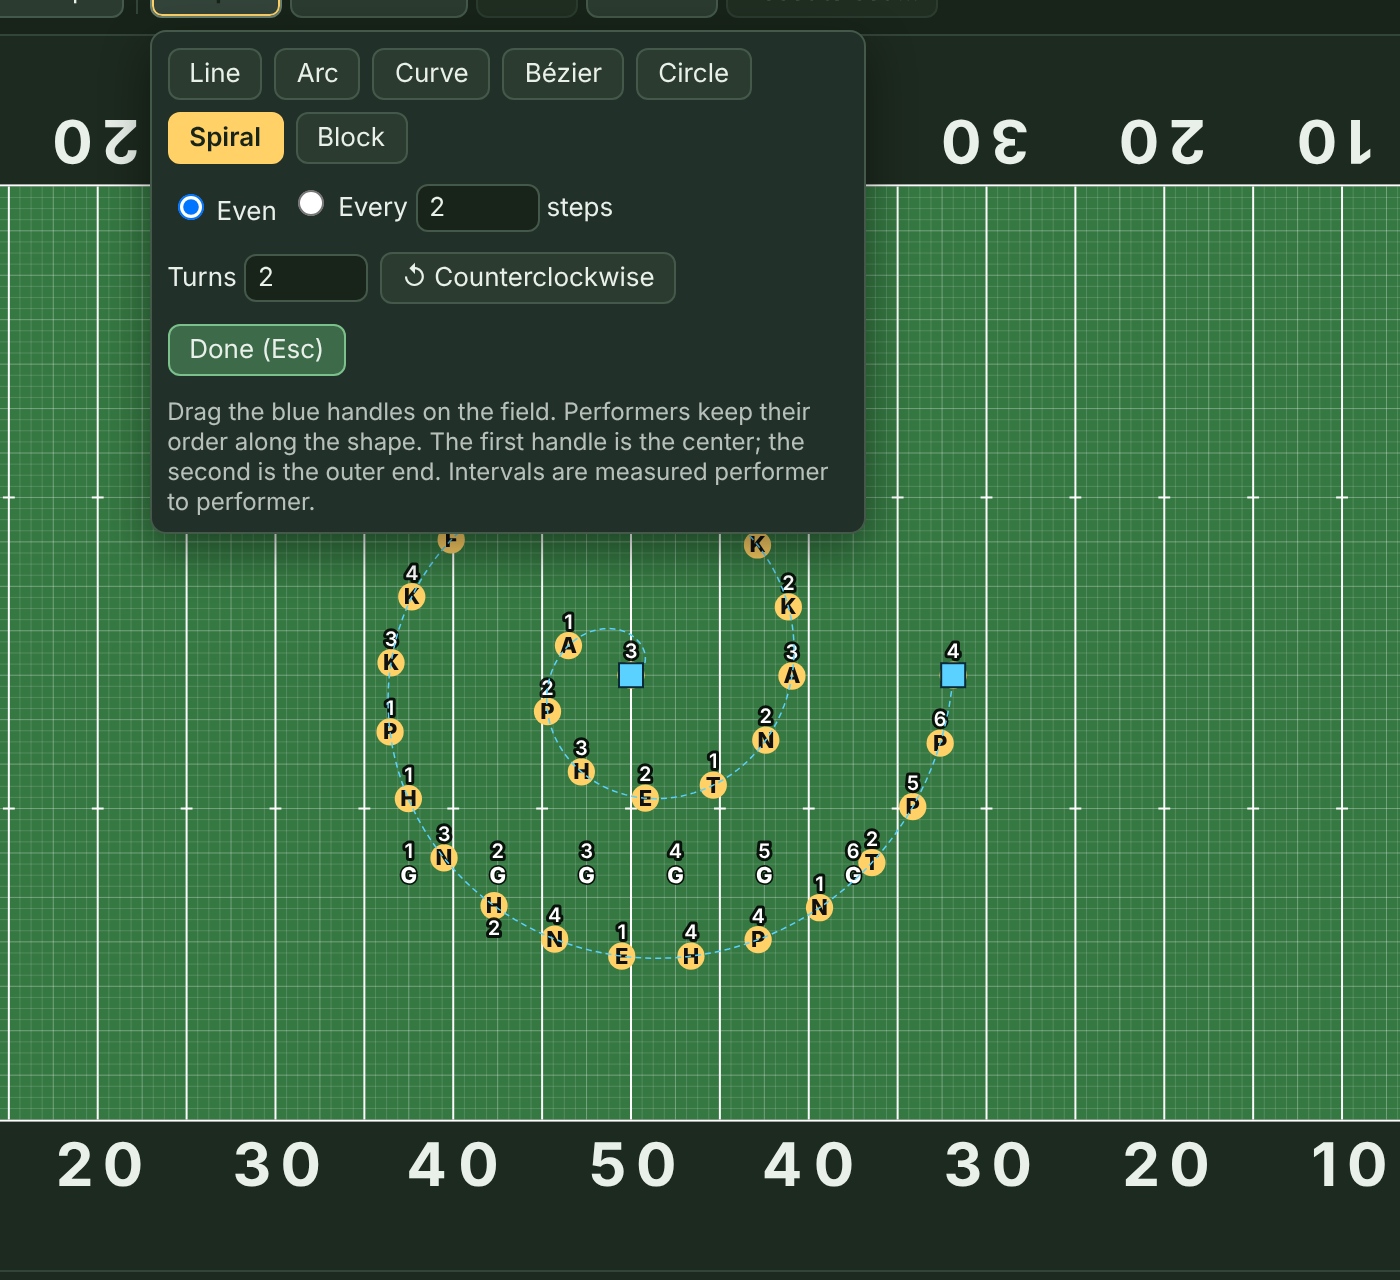
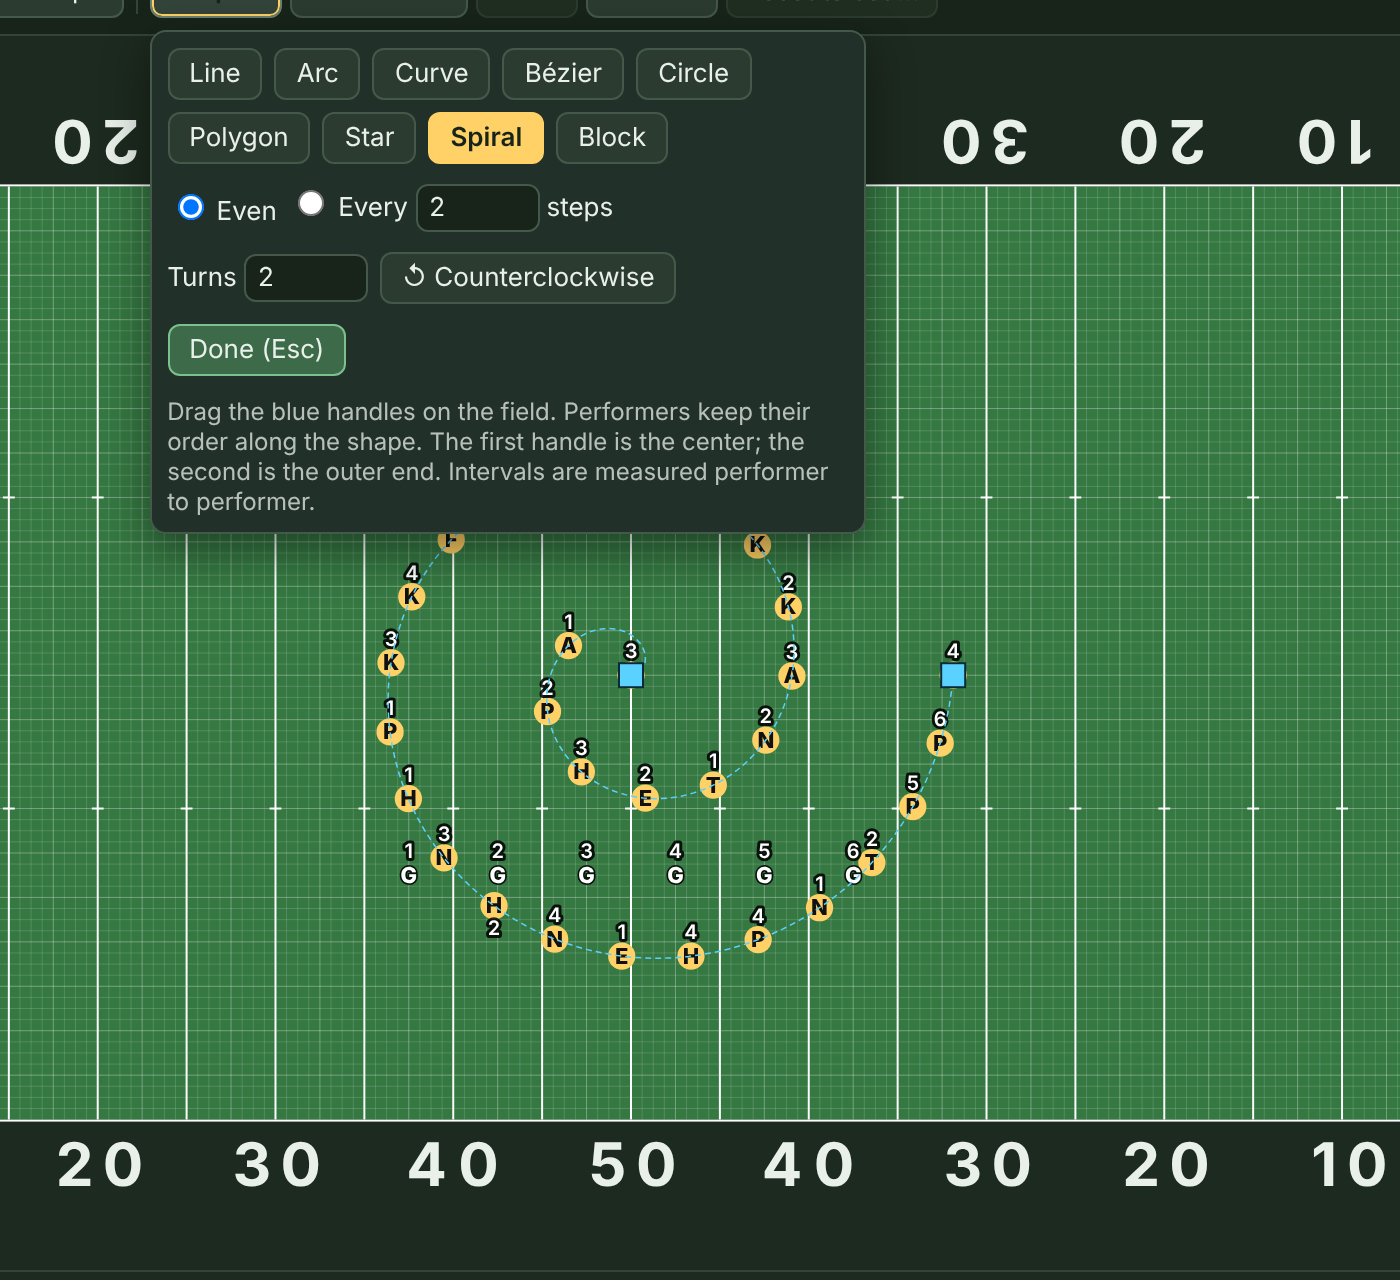
Polygon and star shapes
- Polygon: center and corner handles, 3 to 12 sides. Star: 3 to 12 points,
  inner corners 10 to 90% of the radius. Performers go evenly around the
  outline from the handle's corner. Shortcuts P and X.
- Guide, README, PLAN, DECISIONS, and screenshots updated.

Claude-Session: https://claude.ai/code/session_012ak5ZS7y7ZR1eS53teSgaT

Changed region(s): [[0.1229, 0.0625, 0.4607, 0.125]]

diff --git a/src/ui/Toolbar.tsx b/src/ui/Toolbar.tsx
@@ -38,7 +38,7 @@ export interface ToolbarProps {
 
 /** Shape, its name, and its one-letter shortcut (pressed with 2 or more performers selected). */
 export const SHAPES: [ShapeKind, string, string][] = [['line', 'Line', 'L'], ['arc', 'Arc', 'R'], ['curve', 'Curve', 'U'], ['bezier', 'Bézier', 'B'],
-  ['circle', 'Circle', 'O'], ['spiral', 'Spiral', 'S'], ['block', 'Block', 'K']];
+  ['circle', 'Circle', 'O'], ['polygon', 'Polygon', 'P'], ['star', 'Star', 'X'], ['spiral', 'Spiral', 'S'], ['block', 'Block', 'K']];
 const MARKUP: [Tool, string][] = [['text', 'Text (T)'], ['arrow', 'Arrow'], ['draw', 'Draw']];
 const row: React.CSSProperties = { display: 'flex', gap: 6, alignItems: 'center', flexWrap: 'wrap', marginTop: 6 };
 const help: React.CSSProperties = { margin: '6px 0 0', opacity: 0.75, fontSize: 12, whiteSpace: 'normal' };
@@ -131,7 +131,7 @@ export function Toolbar(p: ToolbarProps) {
       <span className="tb-sep" />
 
       <Menu label="Shape" disabled={needs(many, ids.length === 1 ? 'Select 2 or more performers' : pick)} keepOpen={!!p.shape} pressed={!!p.shape}
-        title="Shape the selection into a line, arc, curve, Bézier, circle, spiral, or block">
+        title="Shape the selection into a line, arc, curve, Bézier, circle, polygon, star, spiral, or block">
         {() => <ShapePanel {...p} />}
       </Menu>
       <Menu label="Transform" disabled={needs(any, pick)} title="Flip, mirror, rotate, or scale the selection">
@@ -251,6 +251,15 @@ function ShapePanel({ shape, startShape, updateShape, endShape }: ToolbarProps) 
                 onValue={(n) => updateShape({ interval: n })} /> steps
             </label>
           </div>
+          {(shape.kind === 'polygon' || shape.kind === 'star') && (
+            <div style={row}>
+              <label>{shape.kind === 'star' ? 'Points' : 'Sides'} <NumberField aria-label={shape.kind === 'star' ? 'Points' : 'Sides'} min={3} max={12} integer
+                value={shape.sides ?? 5} style={{ width: 48 }} onValue={(n) => updateShape({ sides: n })} /></label>
+              {shape.kind === 'star' && <label title="How far in the inside corners sit, as a percent of the points' distance from the center">Inner{' '}
+                <NumberField aria-label="Inner corners, percent" min={10} max={90} integer value={Math.round((shape.inner ?? 0.4) * 100)} style={{ width: 48 }}
+                  onValue={(n) => updateShape({ inner: n / 100 })} />%</label>}
+            </div>
+          )}
           {shape.kind === 'spiral' && (
             <div style={row}>
               <label>Turns <NumberField aria-label="Turns" min={0.5} max={20} step={0.5} value={Math.abs(shape.turns ?? 2)} style={{ width: 48 }}
@@ -276,6 +285,7 @@ function ShapePanel({ shape, startShape, updateShape, endShape }: ToolbarProps) 
           </div>
           <p style={help}>
             Drag the blue handles on the field. Performers keep their order along the shape.
+            {(shape.kind === 'polygon' || shape.kind === 'star') && ` The first handle is the center; drag the second to size and turn it. Performers go evenly around the outline, starting at that ${shape.kind === 'star' ? 'point' : 'corner'}.`}
             {shape.kind === 'spiral' && ' The first handle is the center; the second is the outer end. Intervals are measured performer to performer.'}
             {shape.kind === 'bezier' && ' Squares are points the curve passes through; circles pull the curve toward them. Hold Option (Alt) while dragging to move one handle by itself, e.g. to make a corner.'}
           </p>

diff --git a/src/engine/shapes.ts b/src/engine/shapes.ts
@@ -1,15 +1,16 @@
-// Shape tools: lay selected performers out along a line, arc, curve, circle, spiral, or block. All units are steps.
+// Shape tools: lay selected performers out along a line, arc, curve, circle, polygon, star, spiral, or block. All units are steps.
 import { distance, type Point } from './coords';
 
-export type ShapeKind = 'line' | 'arc' | 'curve' | 'bezier' | 'circle' | 'spiral' | 'block';
+export type ShapeKind = 'line' | 'arc' | 'curve' | 'bezier' | 'circle' | 'polygon' | 'star' | 'spiral' | 'block';
 /**
  * Handles by kind: line [a, b]; arc [a, bend, b] (the arc passes through all three);
  * curve [p0..pn] (smooth curve through every point); circle [center, edge]; block [corner, opposite corner];
+ * polygon [center, a corner]: `sides` equal sides; star [center, a point]: `sides` points, inner corners at `inner` x the radius;
  * spiral [center, outer end]: `turns` coils, counterclockwise going out (clockwise when `turns` is negative);
  * bezier [anchor, control, control, anchor, control, control, anchor, ...]: cubic segments that pass through the
  * anchors and are pulled toward (not through) the controls.
  */
-export interface Shape { kind: ShapeKind; handles: Point[]; interval: number | null; cols: number; turns?: number }
+export interface Shape { kind: ShapeKind; handles: Point[]; interval: number | null; cols: number; turns?: number; sides?: number; inner?: number }
 
 /** Distance between neighboring coils of a spiral, in steps. */
 export const coilGap = (s: Shape) => distance(s.handles[0], s.handles[1]) / Math.max(0.25, Math.abs(s.turns ?? 2));
@@ -25,6 +26,15 @@ export function samplePath(s: Shape): { pts: Point[]; closed: boolean } {
     const a0 = Math.atan2(h[1].y - h[0].y, h[1].x - h[0].x);
     const n = 256;
     return { pts: Array.from({ length: n }, (_, i) => ({ x: h[0].x + r * Math.cos(a0 + (2 * Math.PI * i) / n), y: h[0].y + r * Math.sin(a0 + (2 * Math.PI * i) / n) })), closed: true };
+  }
+  if (s.kind === 'polygon' || s.kind === 'star') {
+    // Just the corners: spots go evenly around the outline, starting on the corner under the second handle.
+    const R = distance(h[0], h[1]), a0 = Math.atan2(h[1].y - h[0].y, h[1].x - h[0].x);
+    const star = s.kind === 'star', n = Math.max(3, Math.round(s.sides ?? 5)) * (star ? 2 : 1);
+    return { pts: Array.from({ length: n }, (_, i) => {
+      const r = star && i % 2 ? R * (s.inner ?? 0.4) : R, a = a0 + (2 * Math.PI * i) / n;
+      return { x: h[0].x + r * Math.cos(a), y: h[0].y + r * Math.sin(a) };
+    }), closed: true };
   }
   if (s.kind === 'spiral') {
     // Archimedean: the radius grows by the same amount every turn, so the coils stay evenly apart. Starts at the center.
@@ -207,6 +217,7 @@ export function fitShape(kind: ShapeKind, pts: Point[]): Shape {
     case 'curve': return { kind, handles: [P(x0, cy), P(x0 + span / 3, cy + span / 6), P(x0 + (2 * span) / 3, cy - span / 6), P(x1, cy)], ...base };
     case 'bezier': return { kind, handles: [P(x0, cy), P(x0 + span / 3, cy + span / 3), P(x0 + (2 * span) / 3, cy - span / 3), P(x1, cy)], ...base };
     case 'circle': return { kind, handles: [P(cx, cy), P(cx + span / 2, cy)], ...base };
+    case 'polygon': case 'star': return { kind, handles: [P(cx, cy), P(cx, cy + span / 2)], ...base, sides: 5, inner: 0.4 }; // a corner straight up the field
     case 'spiral': return { kind, handles: [P(cx, cy), P(cx + span / 2, cy)], ...base, turns: 2 };
     case 'block': {
       const c = base.cols, r = Math.ceil(pts.length / c);

diff --git a/src/engine/shapes.test.ts b/src/engine/shapes.test.ts
@@ -16,6 +16,18 @@ describe('slots', () => {
     // The radius grows steadily with the angle: halfway along the turns, halfway out.
     near(samplePath(sp).pts[128], 8, 0); // one whole turn in from the end: straight in toward the center
   });
+  it('polygon: a square, one spot per corner and between them, evenly around', () => {
+    const p = slots(S('polygon', [{ x: 0, y: 0 }, { x: 8, y: 0 }], { sides: 4 }), 8);
+    near(p[0], 8, 0); near(p[2], 0, 8); near(p[4], -8, 0); near(p[6], 0, -8); near(p[1], 4, 4);
+  });
+  it('star: points at the radius, inner corners at inner x the radius', () => {
+    const { pts, closed } = samplePath(S('star', [{ x: 0, y: 0 }, { x: 0, y: 10 }], { sides: 5, inner: 0.4 }));
+    expect(closed).toBe(true); expect(pts).toHaveLength(10);
+    pts.forEach((q, i) => expect(Math.hypot(q.x, q.y)).toBeCloseTo(i % 2 ? 4 : 10, 6));
+    near(pts[0], 0, 10);
+    expect(slots(S('star', [{ x: 0, y: 0 }, { x: 0, y: 10 }], { sides: 5, inner: 0.4 }), 10).map((q) => Math.round(Math.hypot(q.x, q.y))))
+      .toEqual([10, 4, 10, 4, 10, 4, 10, 4, 10, 4]); // one performer per corner when there are just enough
+  });
   it('spiral: a set interval, performer to performer, from the center', () => {
     const p = slots(S('spiral', [{ x: 0, y: 0 }, { x: 16, y: 0 }], { turns: 2, interval: 2 }), 30);
     near(p[0], 0, 0);

diff --git a/docs/HOW-TO.md b/docs/HOW-TO.md
@@ -14,7 +14,7 @@ The pictures in this guide come from a small sample show (47 performers, 4 sets)
 4. [Add performers](#add-performers)
 5. [Select and move performers](#select-and-move-performers)
 6. [Sets, counts, and the timeline](#sets-counts-and-the-timeline)
-7. [Shapes: lines, arcs, curves, circles, spirals, and blocks](#shapes-lines-arcs-curves-circles-spirals-and-blocks)
+7. [Shapes: lines, arcs, curves, circles, polygons, stars, spirals, and blocks](#shapes-lines-arcs-curves-circles-polygons-stars-spirals-and-blocks)
 8. [Rotate, stretch, and flip](#rotate-stretch-and-flip)
 9. [Follow-the-leader](#follow-the-leader)
 10. [Step-size warnings](#step-size-warnings)
@@ -152,16 +152,20 @@ The timeline scrolls sideways for a long show. Use the mouse wheel or a swipe ov
 
 The timeline then runs the full length, with the part you haven't written yet striped *Not written yet*. To add a set at a particular count, click that count on the timeline and press **+ Add set**, or type the count in the **at count** box. No other set moves. A set added in the middle of a move splits it and gets a sub-set name (1A after 1), the way Pyware names them.
 
-## Shapes: lines, arcs, curves, circles, spirals, and blocks
+## Shapes: lines, arcs, curves, circles, polygons, stars, spirals, and blocks
 
 ![Shaping a block into an arc](img/shape-arc.png)
 
 1. Select the performers you want in the shape.
-2. Open **Shape** and pick **Line**, **Arc**, **Curve**, **Bézier**, **Circle**, **Spiral**, or **Block**. Or press its letter (see [Keyboard shortcuts](#keyboard-shortcuts)).
+2. Open **Shape** and pick **Line**, **Arc**, **Curve**, **Bézier**, **Circle**, **Polygon**, **Star**, **Spiral**, or **Block**. Or press its letter (see [Keyboard shortcuts](#keyboard-shortcuts)).
 3. Drag the blue handles on the field to adjust the shape. Choose **Even** spacing, or **Every** so many steps.
 4. Click **Done** (or press Esc) when it looks right.
 
 FreeFORM decides who goes to which spot by keeping total travel from the previous set as short as it can, so the paths don't cross. Curves can take extra points (**+ Curve point**) and Béziers extra segments (**+ Segment**). Bézier joints stay smooth unless you hold Option (Alt on Windows) while you drag a handle. Blocks also take a number of **Columns**.
+
+**Polygons and stars** have two handles: the center, and a corner (or a star's point). Drag the corner to size the shape and turn it. Set the number of **Sides** for a polygon (3 for a triangle, 4 for a diamond, 6 for a hexagon), or **Points** for a star. **Inner** sets how far in a star's inside corners sit, as a percent of the distance from the center to the points. Performers go evenly around the outline, starting at the corner under the handle. To put someone on every corner, use a number of performers that's a multiple of the corners (5, 10, 15 for a 5-sided polygon; 10, 20 for a 5-point star, which has 10 corners).
+
+![A block shaped into a star](img/shape-star.png)
 
 **Spirals** start in the center and wind out to the outer end. The first handle is the center and the second is the outer end. Set the number of **Turns**, and click the direction button to wind it **Counterclockwise** or **Clockwise**. The coils stay the same distance apart all the way out. Spacing is measured in a straight line from one performer to the next, so performers near the tight center get the same interval as everyone else. If the coils get closer than 2 steps, FreeFORM warns you, because performers on neighboring coils would be too close. Use fewer turns or make the spiral bigger.
 
@@ -352,7 +356,7 @@ With a keyboard attached, the [keyboard shortcuts](#keyboard-shortcuts) work too
 | Select tool | V |
 | Add performer tool | A |
 | Text note tool | T |
-| Shape the selection (2 or more): Line, Arc, cUrve, Bézier, circle (O), Spiral, blocK | L, R, U, B, O, S, K |
+| Shape the selection (2 or more): Line, Arc, cUrve, Bézier, circle (O), Polygon, star (X), Spiral, blocK | L, R, U, B, O, P, X, S, K |
 | Play or pause | Space |
 | Back or forward one count (no one selected) | ← or → |
 | Move the selection 1 step | ← → ↑ ↓ |

diff --git a/DECISIONS.md b/DECISIONS.md
@@ -1052,3 +1052,9 @@ Each entry: timestamp, who decided, context, options considered, decision.
 - **Context:** Jason suggested ⌘/Ctrl + a letter for tools and ⌘/Ctrl + arrow for a 4-step nudge. In a browser, ⌘L jumps to the address bar and ⌘B opens bookmarks in some browsers, and on a Mac ⌘+arrow is a text-editing key.
 - **Options:** ⌘/Ctrl + letter; single letters (as Figma and Illustrator do); for the big nudge, ⌘/Ctrl or Shift.
 - **Decision:** Single letters, which only start a shape when 2 or more performers are selected: L Line, R Arc, U Curve, B Bézier, O Circle, S Spiral, K Block (A stays Add performer, T Text, V Select; F fits the field). Arrows move the selection 1 step, Shift + arrow 4 steps (half of 5 yards at 8 to 5), and Option/Alt + arrow half a step; with no one selected, ← and → still step through counts. ⌘/Ctrl + and − zoom the field instead of the page, and ⌘/Ctrl 0 fits it. A nudge ends an open shape and carries a selected FTL group's turns along, the same as dragging.
+
+## 2026-11-04 23:40 EST — Polygon and star shapes
+- **Who:** Jason Tiller asked for them; the details are Claude's *(Jason can veto)*.
+- **Context:** Regular polygons and stars are common forms. They need a way to set the corner count and, for a star, how deep its inside corners go.
+- **Options:** Corner handles you drag one by one; a center and one corner handle with a number of sides. Performers only on the corners, or evenly around the outline.
+- **Decision:** Center and one corner handle (dragging it sizes and turns the shape), **Sides** 3 to 12 for a polygon, **Points** 3 to 12 and **Inner** 10 to 90% for a star (default 5 and 40%). Both start with a corner straight up the field. Performers go evenly around the outline from the handle's corner, so every corner gets someone when the count is a multiple of the corners. Shortcuts: **P** Polygon, **X** Star (S was already Spiral).

diff --git a/PLAN.md b/PLAN.md
@@ -16,7 +16,7 @@
 - ✅ Touch support pass (tablets): two-finger pan and pinch on the field (a second finger takes back what the first started), fingertip hit areas, Add to selection (no Shift key), 44 pt controls with fixed rows sized once per device, sideways-scrolling rows with Undo/Redo/Fit pinned, hold-to-pick-up set buttons on the timeline. Checked in emulated iPads (Playwright, real touch events). ✅ Sidebar show/hide button; on narrow windows it starts hidden and opens over the field. ✅ Timeline show/hide button, so a tablet can give the whole screen to the field. ✅ Real iPad check (Jason, 2026-11-04: looks and feels right; the Apple Pencil works like a finger). ✅ Apple Pencil (Jason's report): once a pen has touched the field, one finger or a resting palm does nothing there, two fingers still pan and zoom, and fingers or a system cancel never take back the Pencil's work. Follow-ups: touch alternatives for Option-drag (move one shape handle) and other modifier-key actions; Jason to recheck the Pencil-then-pinch case on the real iPad.
 
 ## Later milestones (rough order)
-- ✅ Shape tools: line, arc, curve, Bézier, circle, spiral, block (select, then shape; even or interval spacing; least-travel assignment).
+- ✅ Shape tools: line, arc, curve, Bézier, circle, polygon, star, spiral, block (select, then shape; even or interval spacing; least-travel assignment).
 - ✅ Keyboard shortcuts for drill writing: one letter per shape, arrow-key nudges (1 step, Shift 4, Option/Alt half), ⌘/Ctrl +/− zoom the field, F or ⌘0 fit. Later: a **?** cheat sheet and a customizable keymap.
 - ✅ Mirror: flip across the 50 or front to back; copy Side 1 → 2 (or 2 → 1) with least-travel pairing.
 - ✅ Rotate and scale a selection around its center.

diff --git a/README.md b/README.md
@@ -33,7 +33,7 @@ A note on where the ideas came from: FreeFORM is modeled on Pyware and the Ultim
 - A football field with high school, college/DCI, or NFL hashes and an 8-to-5 grid, seen from the press box (Side 1 on the left).
 - Coordinates in standard drill language, like "2 steps outside the Side 2 45, 2 steps in front of Front Hash."
 - Sections with letters and colors, a roster of names (paste it from a spreadsheet), and labels that stay out of each other's way.
-- Shapes: line, arc, curve, Bézier, circle, spiral, and block. FreeFORM assigns spots by least total travel, so paths don't cross.
+- Shapes: line, arc, curve, Bézier, circle, polygon, star, spiral, and block. FreeFORM assigns spots by least total travel, so paths don't cross.
 - Rotate and stretch a group by dragging handles on the field. Flip across the 50 or front to back, or copy one side to the other.
 - Follow-the-leader moves, with turns.
 - Step-size warnings: yellow past a 6-to-5, red past a 4-to-5.
